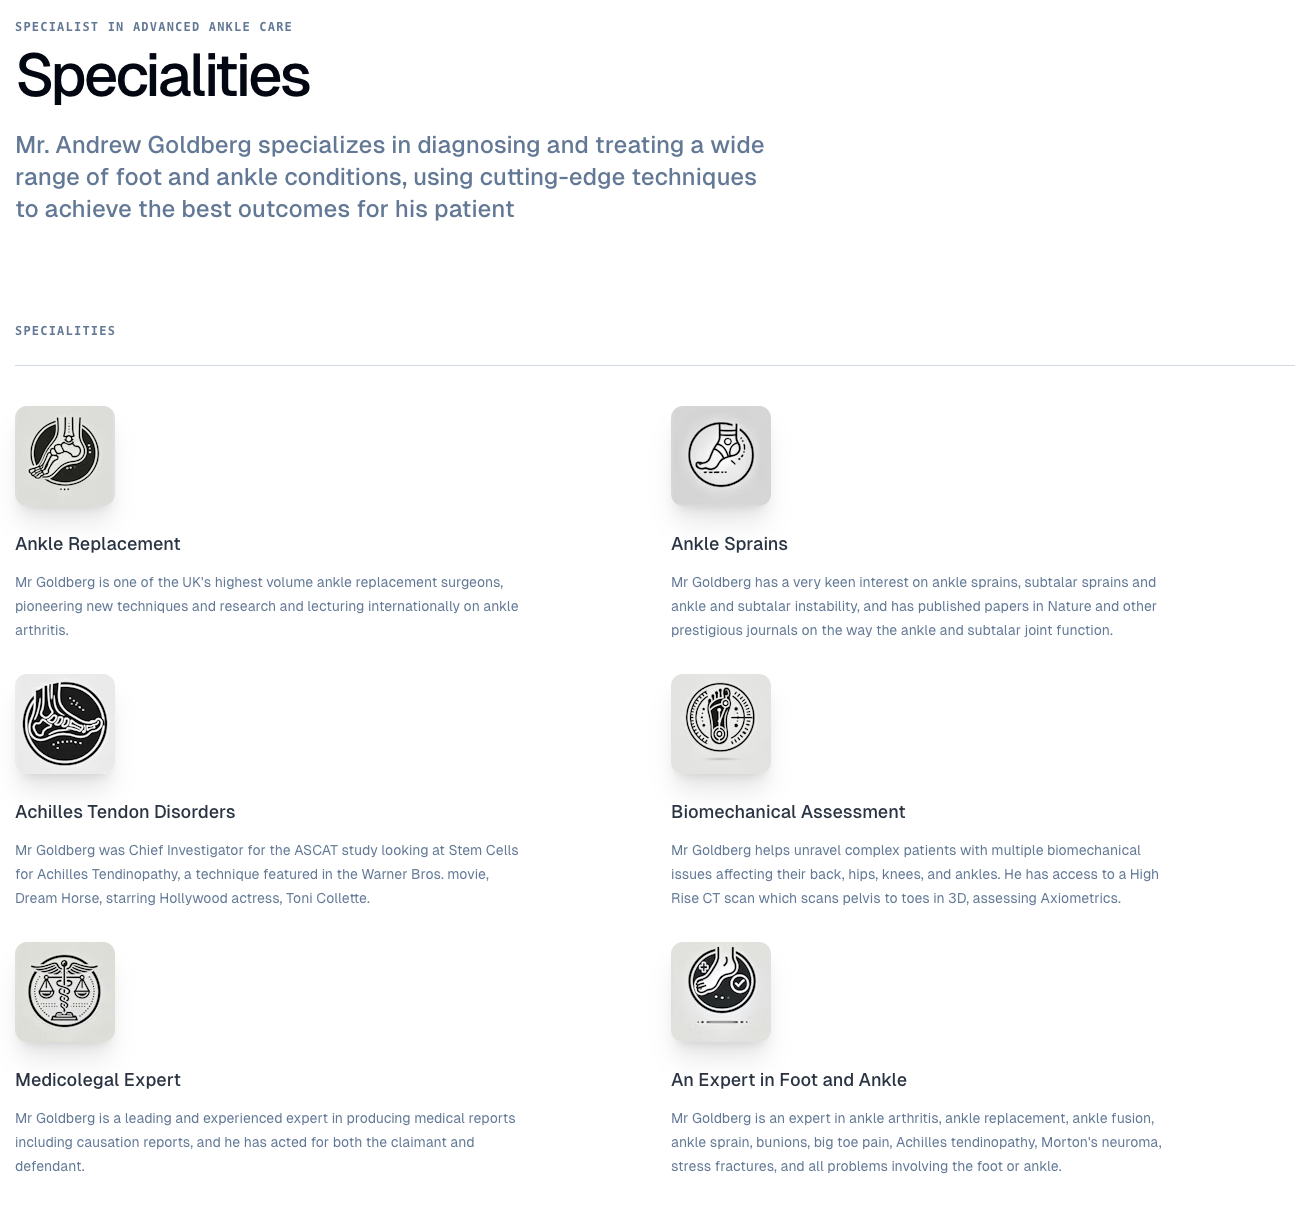
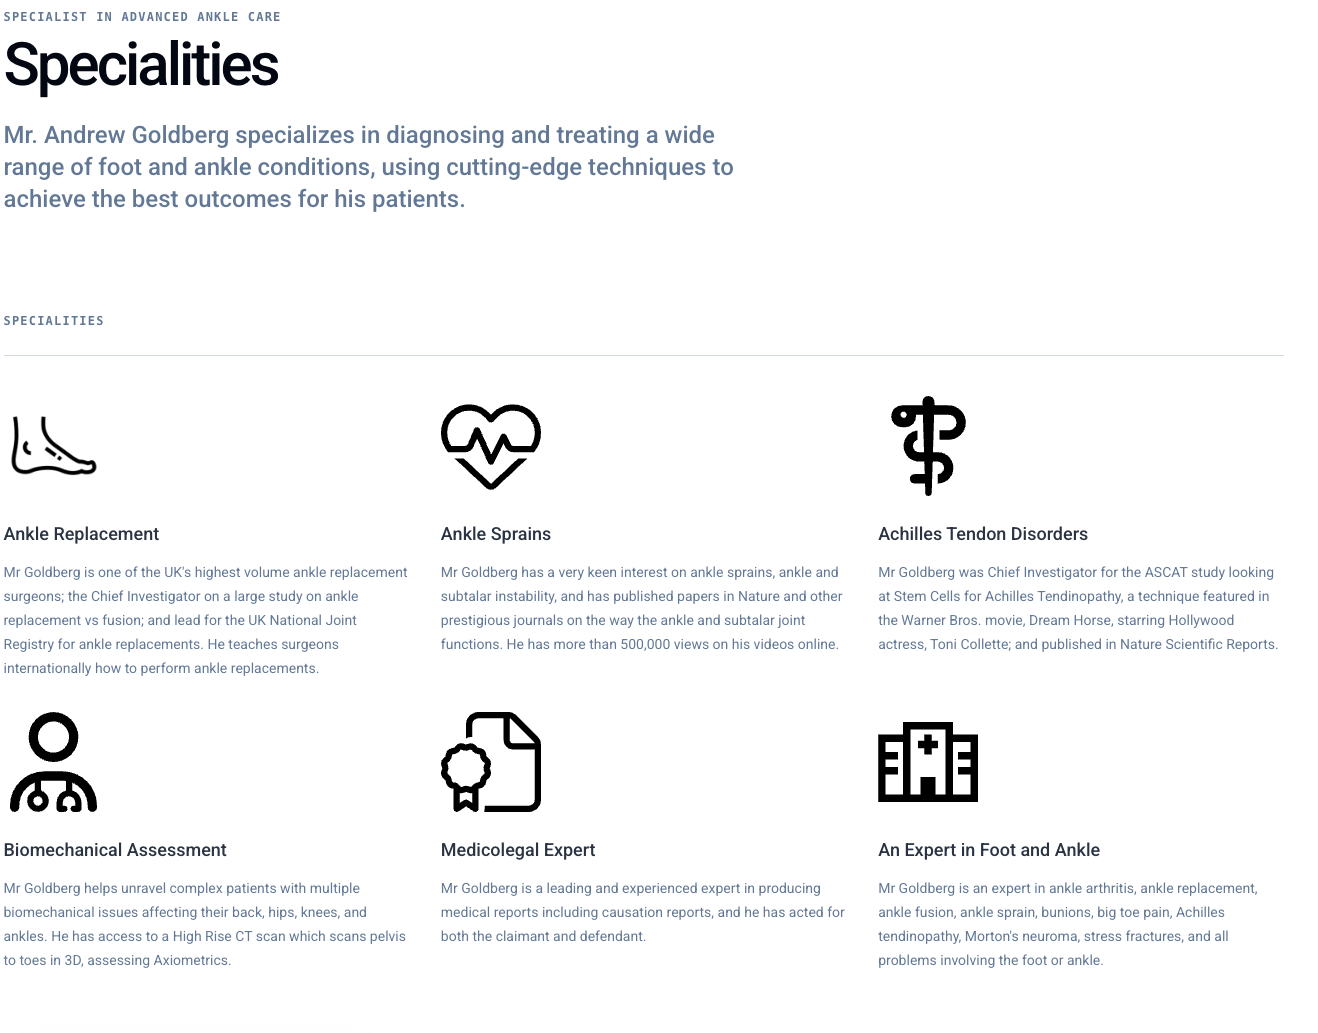
feat: List item allows for images now

Changed region(s): [[0.0, 0.3098, 0.9793, 0.9603], [0.0, 0.0, 0.5815, 0.2168], [0.0306, 0.2478, 0.0918, 0.2788]]

diff --git a/prismicio-types.d.ts b/prismicio-types.d.ts
@@ -2627,6 +2627,51 @@ export interface SectionSliceSectionListPrimaryListItem {
 }
 
 /**
+ * Item in *Section → Section List Image → Primary → List*
+ */
+export interface SectionSliceSectionListImagePrimaryListItem {
+  /**
+   * Image field in *Section → Section List Image → Primary → List*
+   *
+   * - **Field Type**: Image
+   * - **Placeholder**: *None*
+   * - **API ID Path**: section.sectionListImage.primary.list[].icon
+   * - **Documentation**: https://prismic.io/docs/field#image
+   */
+  icon: prismic.ImageField<never>;
+
+  /**
+   * Heading field in *Section → Section List Image → Primary → List*
+   *
+   * - **Field Type**: Text
+   * - **Placeholder**: *None*
+   * - **API ID Path**: section.sectionListImage.primary.list[].heading
+   * - **Documentation**: https://prismic.io/docs/field#key-text
+   */
+  heading: prismic.KeyTextField;
+
+  /**
+   * Body field in *Section → Section List Image → Primary → List*
+   *
+   * - **Field Type**: Rich Text
+   * - **Placeholder**: *None*
+   * - **API ID Path**: section.sectionListImage.primary.list[].body
+   * - **Documentation**: https://prismic.io/docs/field#rich-text-title
+   */
+  body: prismic.RichTextField;
+
+  /**
+   * Link field in *Section → Section List Image → Primary → List*
+   *
+   * - **Field Type**: Link
+   * - **Placeholder**: *None*
+   * - **API ID Path**: section.sectionListImage.primary.list[].link
+   * - **Documentation**: https://prismic.io/docs/field#link-content-relationship
+   */
+  link: prismic.LinkField;
+}
+
+/**
  * Primary content in *Section → Default → Primary*
  */
 export interface SectionSliceDefaultPrimary {
@@ -2926,13 +2971,92 @@ export type SectionSliceSectionEmbed = prismic.SharedSliceVariation<
 >;
 
 /**
+ * Primary content in *Section → Section List Image → Primary*
+ */
+export interface SectionSliceSectionListImagePrimary {
+  /**
+   * Heading field in *Section → Section List Image → Primary*
+   *
+   * - **Field Type**: Text
+   * - **Placeholder**: *None*
+   * - **API ID Path**: section.sectionListImage.primary.heading
+   * - **Documentation**: https://prismic.io/docs/field#key-text
+   */
+  heading: prismic.KeyTextField;
+
+  /**
+   * Subheading field in *Section → Section List Image → Primary*
+   *
+   * - **Field Type**: Text
+   * - **Placeholder**: *None*
+   * - **API ID Path**: section.sectionListImage.primary.subheading
+   * - **Documentation**: https://prismic.io/docs/field#key-text
+   */
+  subheading: prismic.KeyTextField;
+
+  /**
+   * Lead field in *Section → Section List Image → Primary*
+   *
+   * - **Field Type**: Text
+   * - **Placeholder**: *None*
+   * - **API ID Path**: section.sectionListImage.primary.lead
+   * - **Documentation**: https://prismic.io/docs/field#key-text
+   */
+  lead: prismic.KeyTextField;
+
+  /**
+   * Body field in *Section → Section List Image → Primary*
+   *
+   * - **Field Type**: Rich Text
+   * - **Placeholder**: *None*
+   * - **API ID Path**: section.sectionListImage.primary.body
+   * - **Documentation**: https://prismic.io/docs/field#rich-text-title
+   */
+  body: prismic.RichTextField;
+
+  /**
+   * List Title field in *Section → Section List Image → Primary*
+   *
+   * - **Field Type**: Text
+   * - **Placeholder**: *None*
+   * - **API ID Path**: section.sectionListImage.primary.list_title
+   * - **Documentation**: https://prismic.io/docs/field#key-text
+   */
+  list_title: prismic.KeyTextField;
+
+  /**
+   * List field in *Section → Section List Image → Primary*
+   *
+   * - **Field Type**: Group
+   * - **Placeholder**: *None*
+   * - **API ID Path**: section.sectionListImage.primary.list[]
+   * - **Documentation**: https://prismic.io/docs/field#group
+   */
+  list: prismic.GroupField<Simplify<SectionSliceSectionListImagePrimaryListItem>>;
+}
+
+/**
+ * Section List Image variation for Section Slice
+ *
+ * - **API ID**: `sectionListImage`
+ * - **Description**: Default
+ * - **Documentation**: https://prismic.io/docs/slice
+ */
+export type SectionSliceSectionListImage = prismic.SharedSliceVariation<
+  'sectionListImage',
+  Simplify<SectionSliceSectionListImagePrimary>,
+  never
+>;
+
+/**
  * Slice variation for *Section*
  */
 type SectionSliceVariation =
   | SectionSliceDefault
   | SectionSliceSectionNumbers
   | SectionSliceSectionList
-  | SectionSliceSectionEmbed;
+  | SectionSliceSectionEmbed
+  | SectionSliceSectionListImage;
 
 /**
  * Section Shared Slice
@@ -3202,11 +3326,14 @@ declare module '@prismicio/client' {
       SectionSliceSectionListPrimaryListItem,
       SectionSliceSectionListPrimary,
       SectionSliceSectionEmbedPrimary,
+      SectionSliceSectionListImagePrimaryListItem,
+      SectionSliceSectionListImagePrimary,
       SectionSliceVariation,
       SectionSliceDefault,
       SectionSliceSectionNumbers,
       SectionSliceSectionList,
       SectionSliceSectionEmbed,
+      SectionSliceSectionListImage,
       TestimonialSlice,
       TestimonialSliceDefaultPrimary,
       TestimonialSliceTestimonialsPrimaryItemsItem,

diff --git a/src/slices/Section/index.tsx b/src/slices/Section/index.tsx
@@ -63,7 +63,13 @@ function ListItem({
  * Component for "Section" Slices.
  */
 const Section = ({ slice }: SectionProps): JSX.Element => {
-  if (slice.variation === 'sectionList') {
+  if (slice.variation === 'sectionList' || slice.variation === 'sectionListImage') {
+    let imageSize = '100';
+
+    if (slice.variation === 'sectionList') {
+      imageSize = 'auto';
+    }
+
     return (
       <Container className="mt-16 md:mt-24 lg:mt-32">
         <Subheading>{slice.primary.subheading}</Subheading>
@@ -83,8 +89,8 @@ const Section = ({ slice }: SectionProps): JSX.Element => {
                 heading={item.heading!}
                 description={item.body}
                 image={item.icon}
-                imageStyle={item.style}
-                imageSize={item.icon_width ?? '100'}
+                imageStyle={slice.variation !== 'sectionList'}
+                imageSize={imageSize}
                 link={item.link}
               />
             ))}
